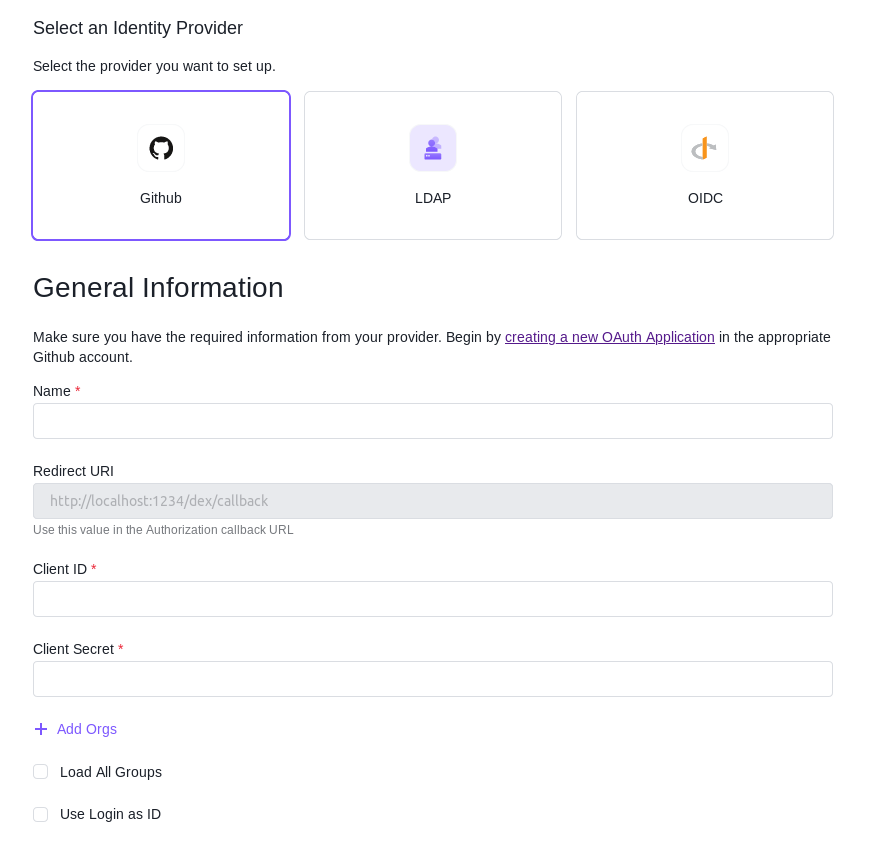
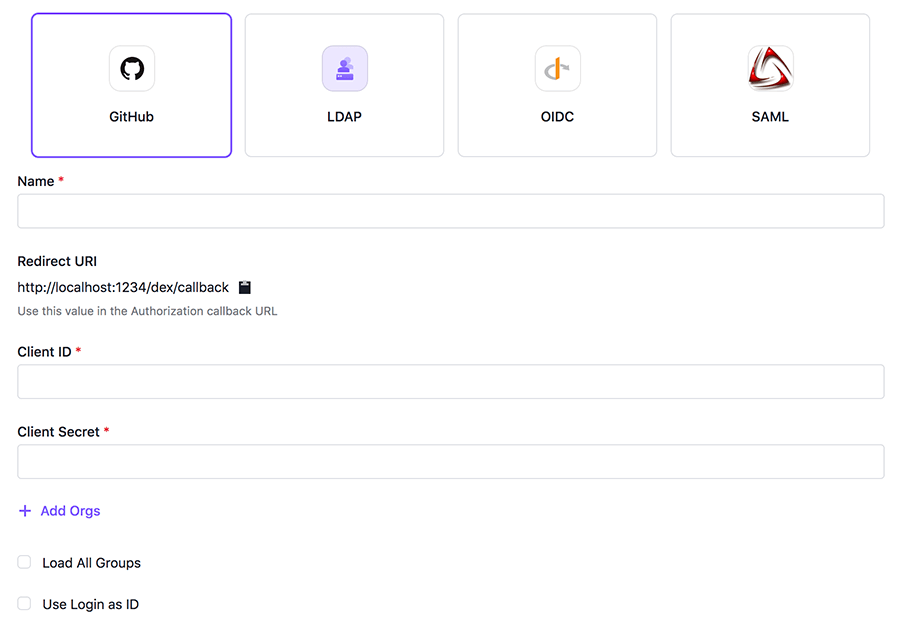
chore: updates idp docs with SAML provider option
Closes D2IQ-72129

diff --git a/pages/ksphere/kommander/1.2/operations/identity-providers/index.md b/pages/ksphere/kommander/1.2/operations/identity-providers/index.md
@@ -23,7 +23,7 @@ You can perform the following operations on Identity Providers:
 
 To provide simple access for the users of your organization, Identity Providers can be set up.
 
-Currently, Kommander supports **Github**, **LDAP**, and any standard **OIDC** provider such as **Google**.
+Currently, Kommander supports **GitHub**, **LDAP**, any standard **SAML** provider such as **OneLogin**, and any standard **OIDC** provider such as **Google**.
 
 You can configure as many Identity Providers as you like and users will be able to select any of those methods when logging in.
 
@@ -50,6 +50,12 @@ LDAP Form
 ![OIDC Form](/ksphere/kommander/1.2/img/Identity-provider-OIDC.png)
 
 OIDC Form
+
+- The SAML provider allows users to log in using a single sign-on (SSO) profile.
+
+![SAML Form](/ksphere/kommander/1.2/img/Identity-provider-SAML.png)
+
+SAML Form
 
 ### Temporarily disabling a provider
 
